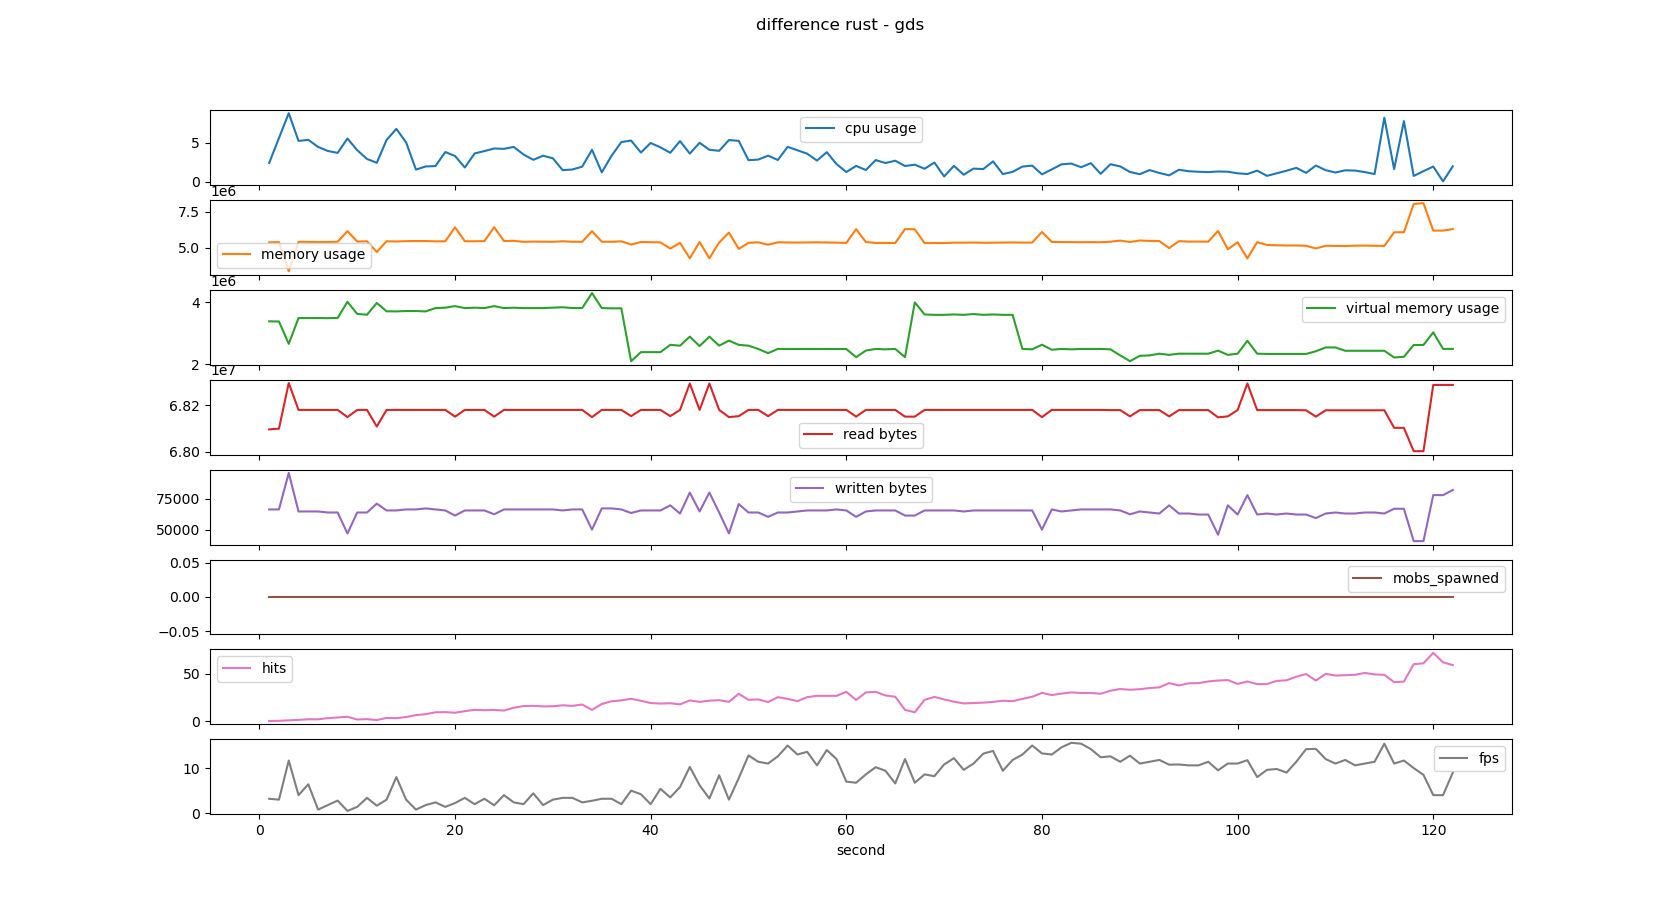
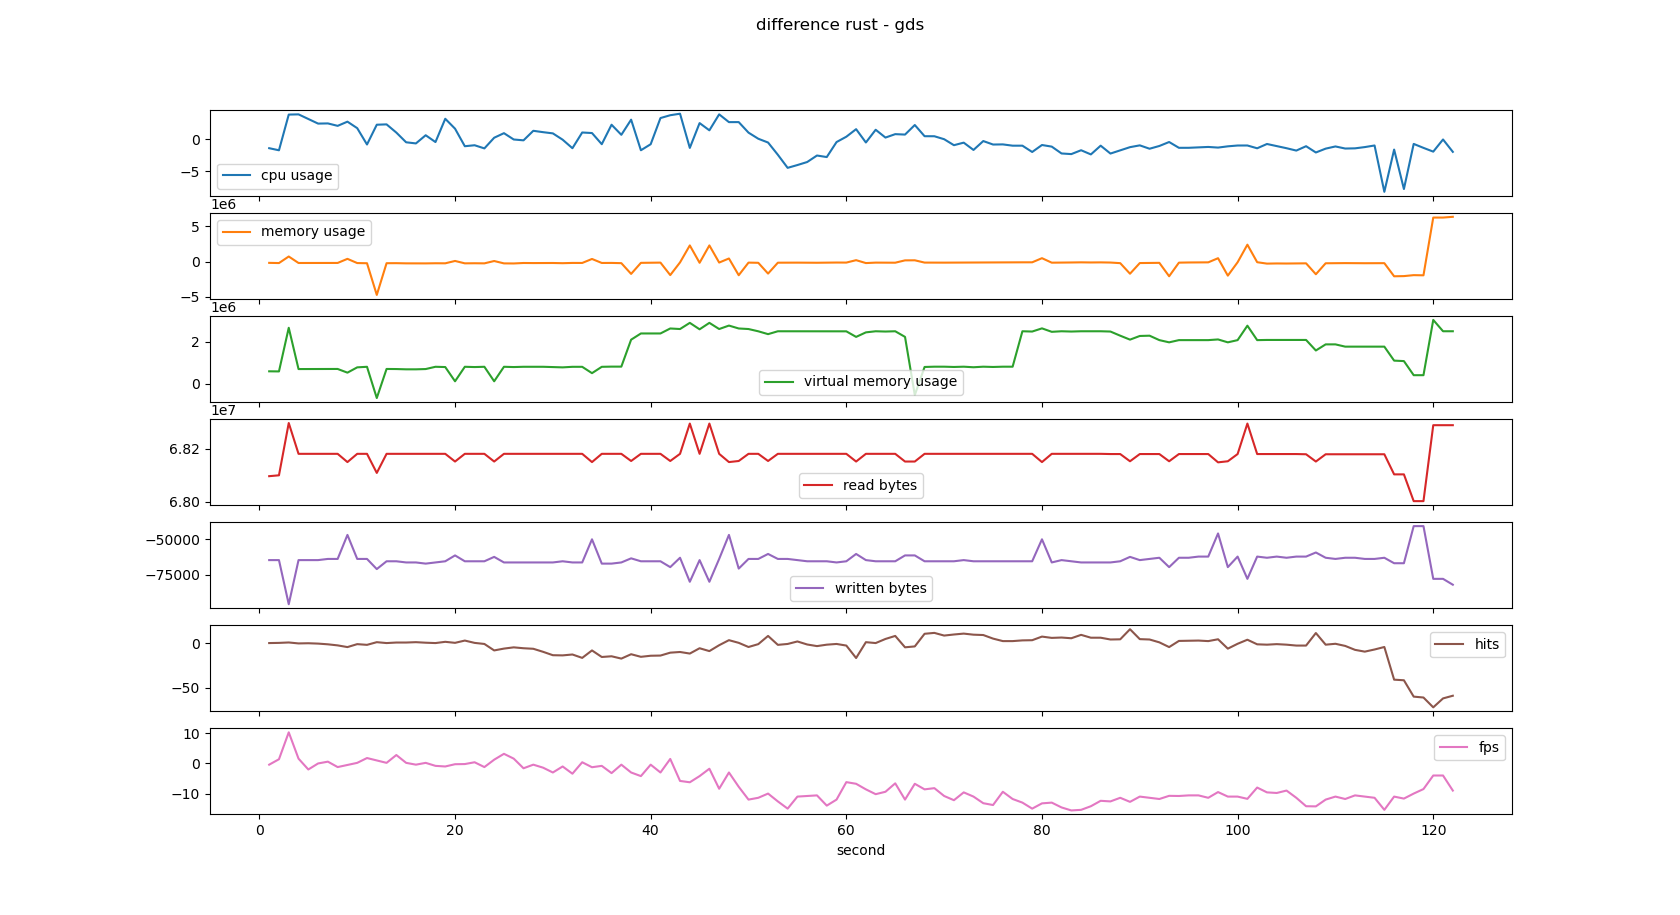
remove abs() from difference calculation and update results accordingly

diff --git a/merge-and-plot-folders.py b/merge-and-plot-folders.py
@@ -72,7 +72,7 @@ def dataframe_difference(df1, df2):
     # Return the rows with differences
     #return abs(df1[mask] - df2[mask])
 
-    return abs(df1 - df2)
+    return df1 - df2
 
 #this was supposed to calculate mean over max value of a specific column given as df.max(axis='column_name')
 #instead it returned a list of those values of all columns
@@ -260,8 +260,9 @@ def main():
     #print(average_diff)
 
     #plot the averages
-    plot_unified_views_df(mean_rust, "rust")
-    plot_unified_views_df(mean_gds, "godot")
+    #plot_unified_views_df(mean_rust, "rust")
+    #plot_unified_views_df(mean_gds, "godot")
+    mean_diff=mean_diff.drop(columns=['mobs_spawned'])
     plot_unified_views_df(mean_diff, "difference rust - gds")
 
 
